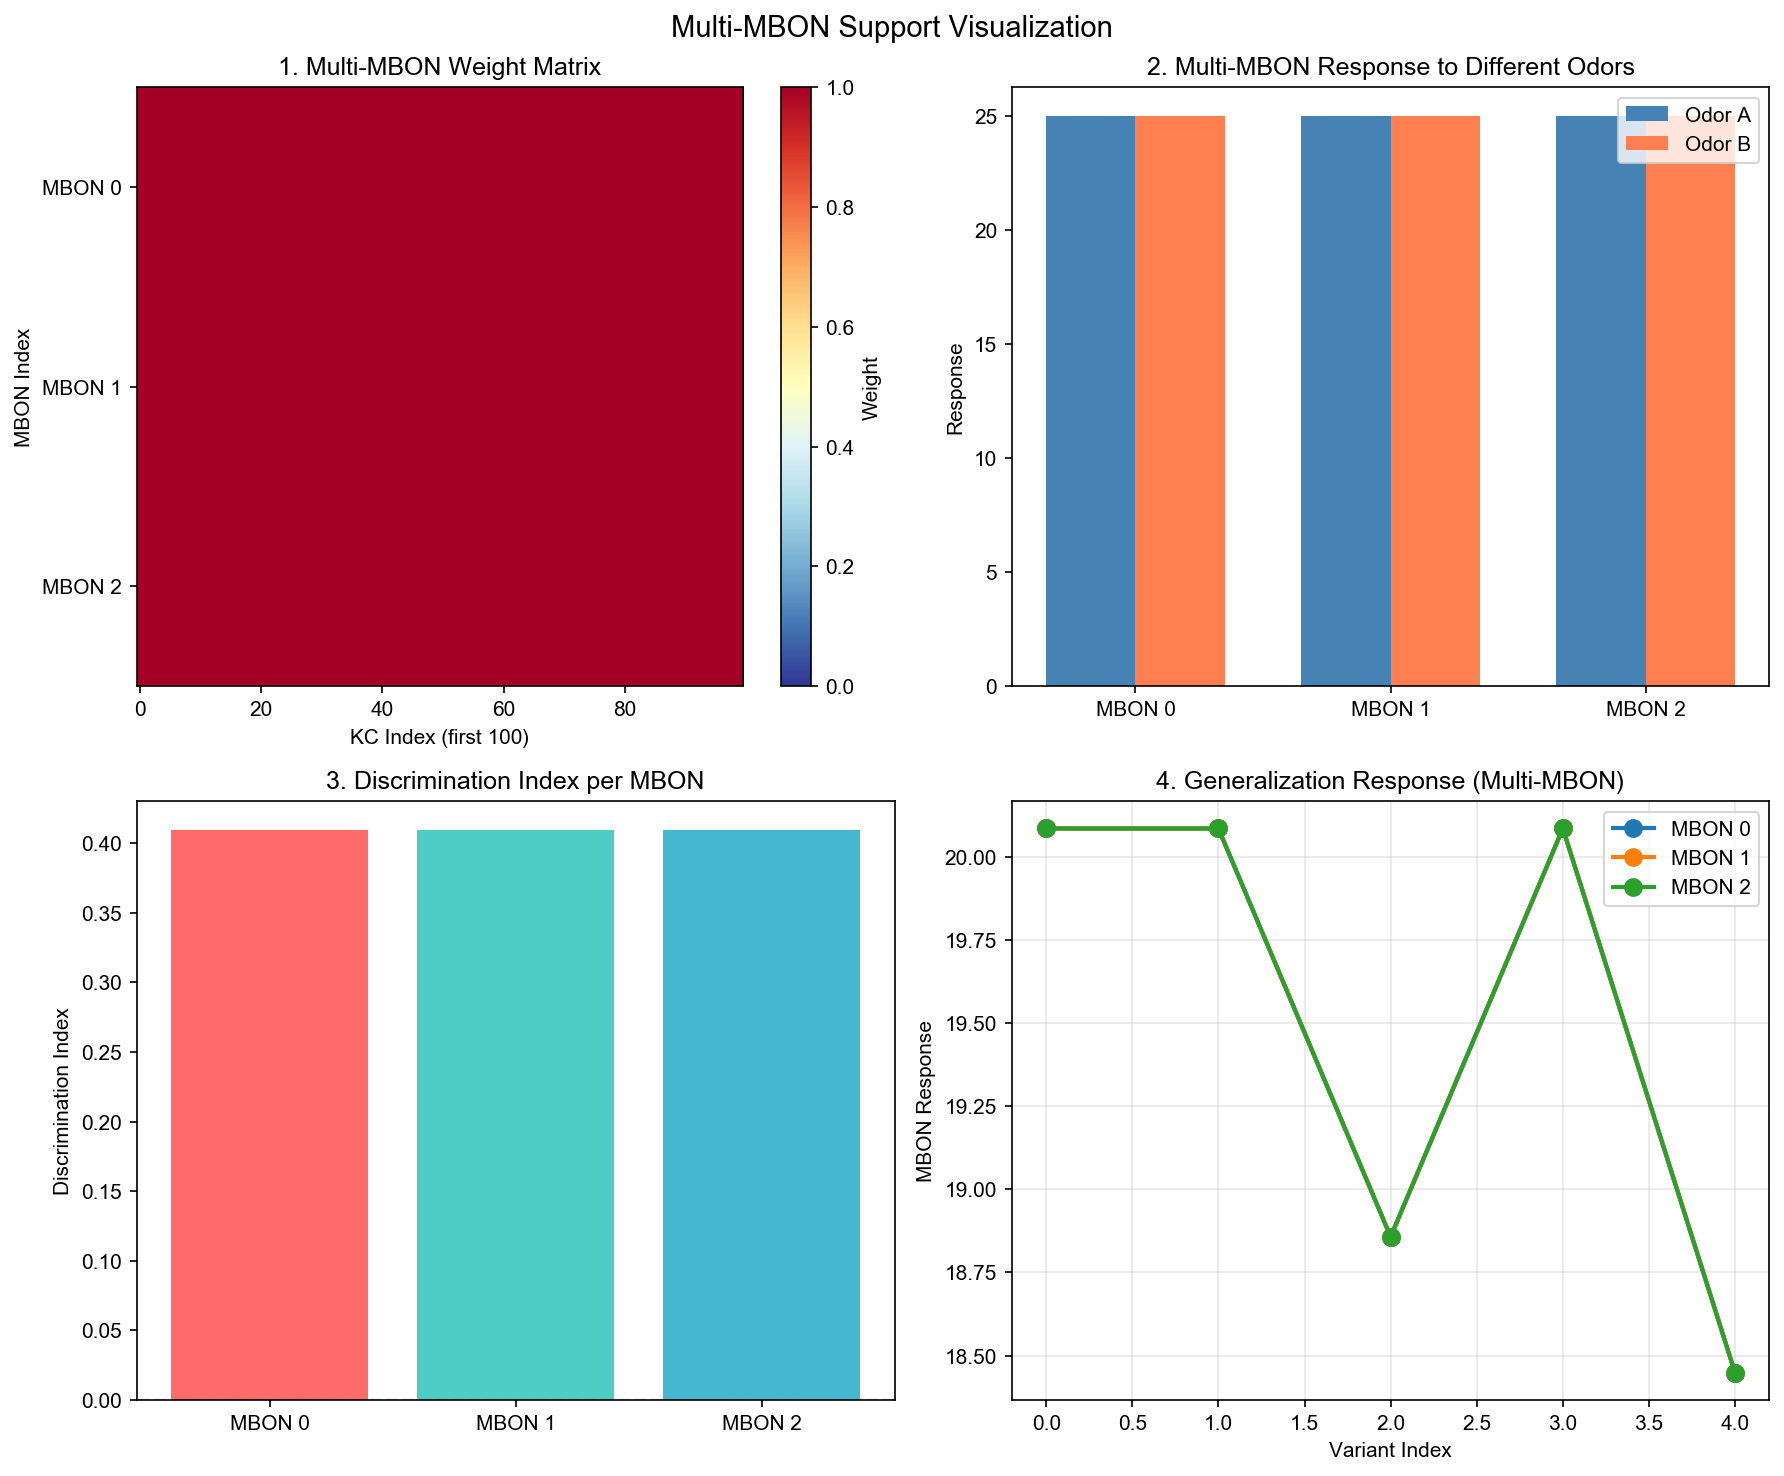
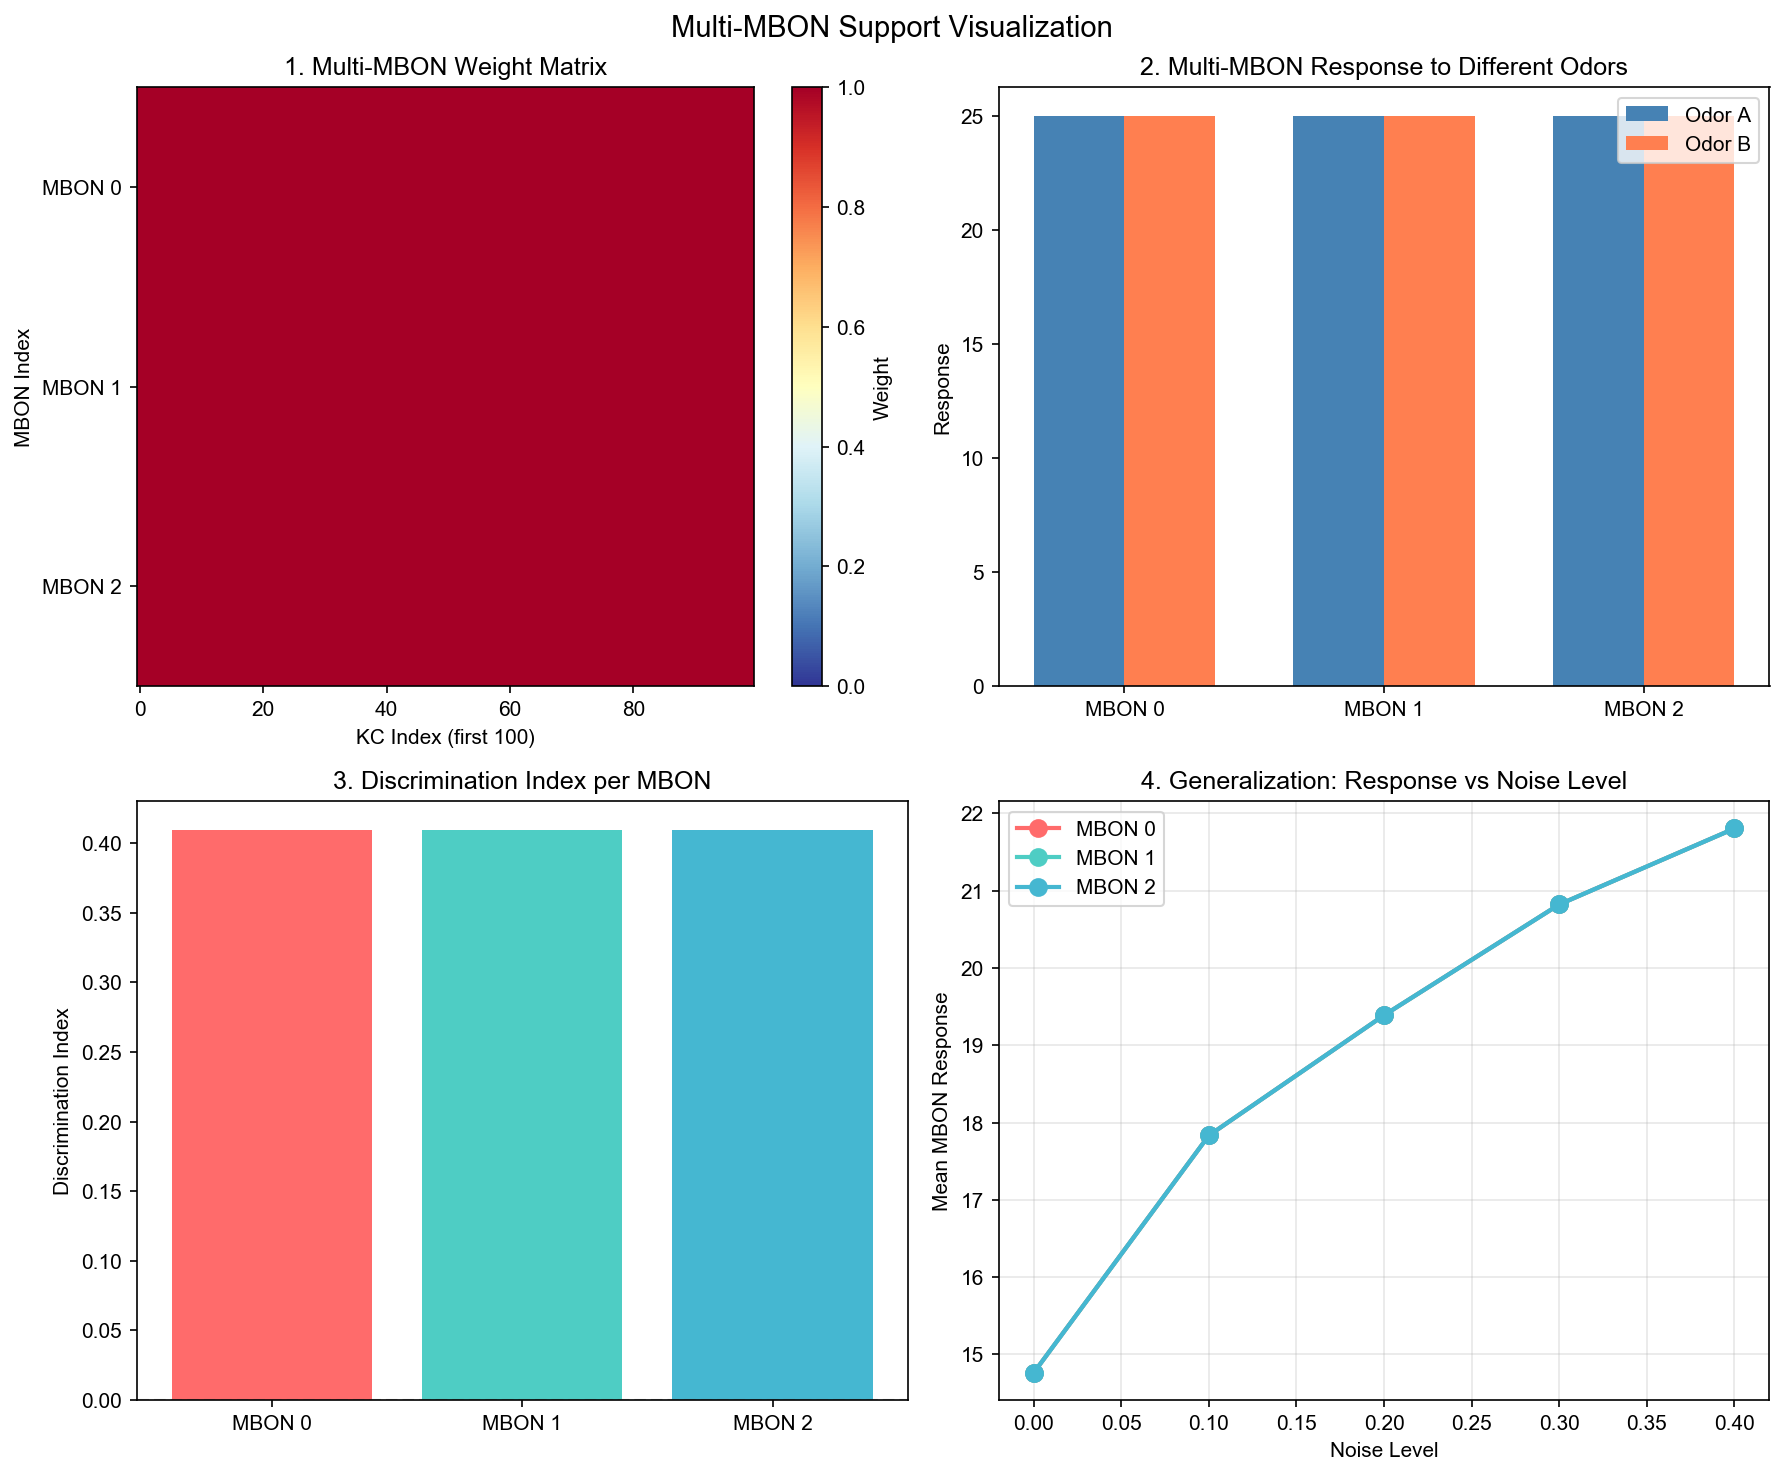
修复多MBON泛化可视化
- 图4改为展示不同噪声水平下的泛化响应
- 显示所有3个MBON的响应曲线
- X轴改为噪声水平，更清晰展示泛化梯度

diff --git a/visualize.py b/visualize.py
@@ -534,18 +534,38 @@ def visualize_multi_mbon():
     # ========== 4. 泛化响应 (多MBON) ==========
     ax4 = axes[1, 1]
     
-    # 生成变体
-    variants = dataset.generate_variants(odor_a, n_samples=5, noise_level=0.2, seed=300)
+    # 测试不同噪声水平的泛化响应
+    noise_levels = [0.0, 0.1, 0.2, 0.3, 0.4]
     
-    # 获取泛化响应
-    responses = evaluator.evaluate_generalization(odor_a, variants)
+    # 存储每个噪声水平下各 MBON 的平均响应
+    responses_by_noise = {i: [] for i in range(3)}
     
+    for noise in noise_levels:
+        if noise == 0:
+            # 训练气味本身
+            resp, _ = model.predict(odor_a)
+            for i in range(3):
+                responses_by_noise[i].append(resp[i])
+        else:
+            # 生成噪声变体并计算平均响应
+            variants = dataset.generate_variants(odor_a, n_samples=10, noise_level=noise, seed=int(noise*1000))
+            avg_resp = np.zeros(3)
+            for v in variants:
+                resp, _ = model.predict(v)
+                avg_resp += resp
+            avg_resp /= len(variants)
+            for i in range(3):
+                responses_by_noise[i].append(avg_resp[i])
+    
+    # 绘制每个 MBON 的泛化曲线
+    colors = ['#ff6b6b', '#4ecdc4', '#45b7d1']
     for i in range(3):
-        ax4.plot(range(5), responses[:, i], 'o-', label=f'MBON {i}', linewidth=2, markersize=8)
+        ax4.plot(noise_levels, responses_by_noise[i], 'o-', 
+                label=f'MBON {i}', linewidth=2, markersize=8, color=colors[i])
     
-    ax4.set_xlabel('Variant Index')
-    ax4.set_ylabel('MBON Response')
-    ax4.set_title('4. Generalization Response (Multi-MBON)')
+    ax4.set_xlabel('Noise Level')
+    ax4.set_ylabel('Mean MBON Response')
+    ax4.set_title('4. Generalization: Response vs Noise Level')
     ax4.legend()
     ax4.grid(True, alpha=0.3)
     
